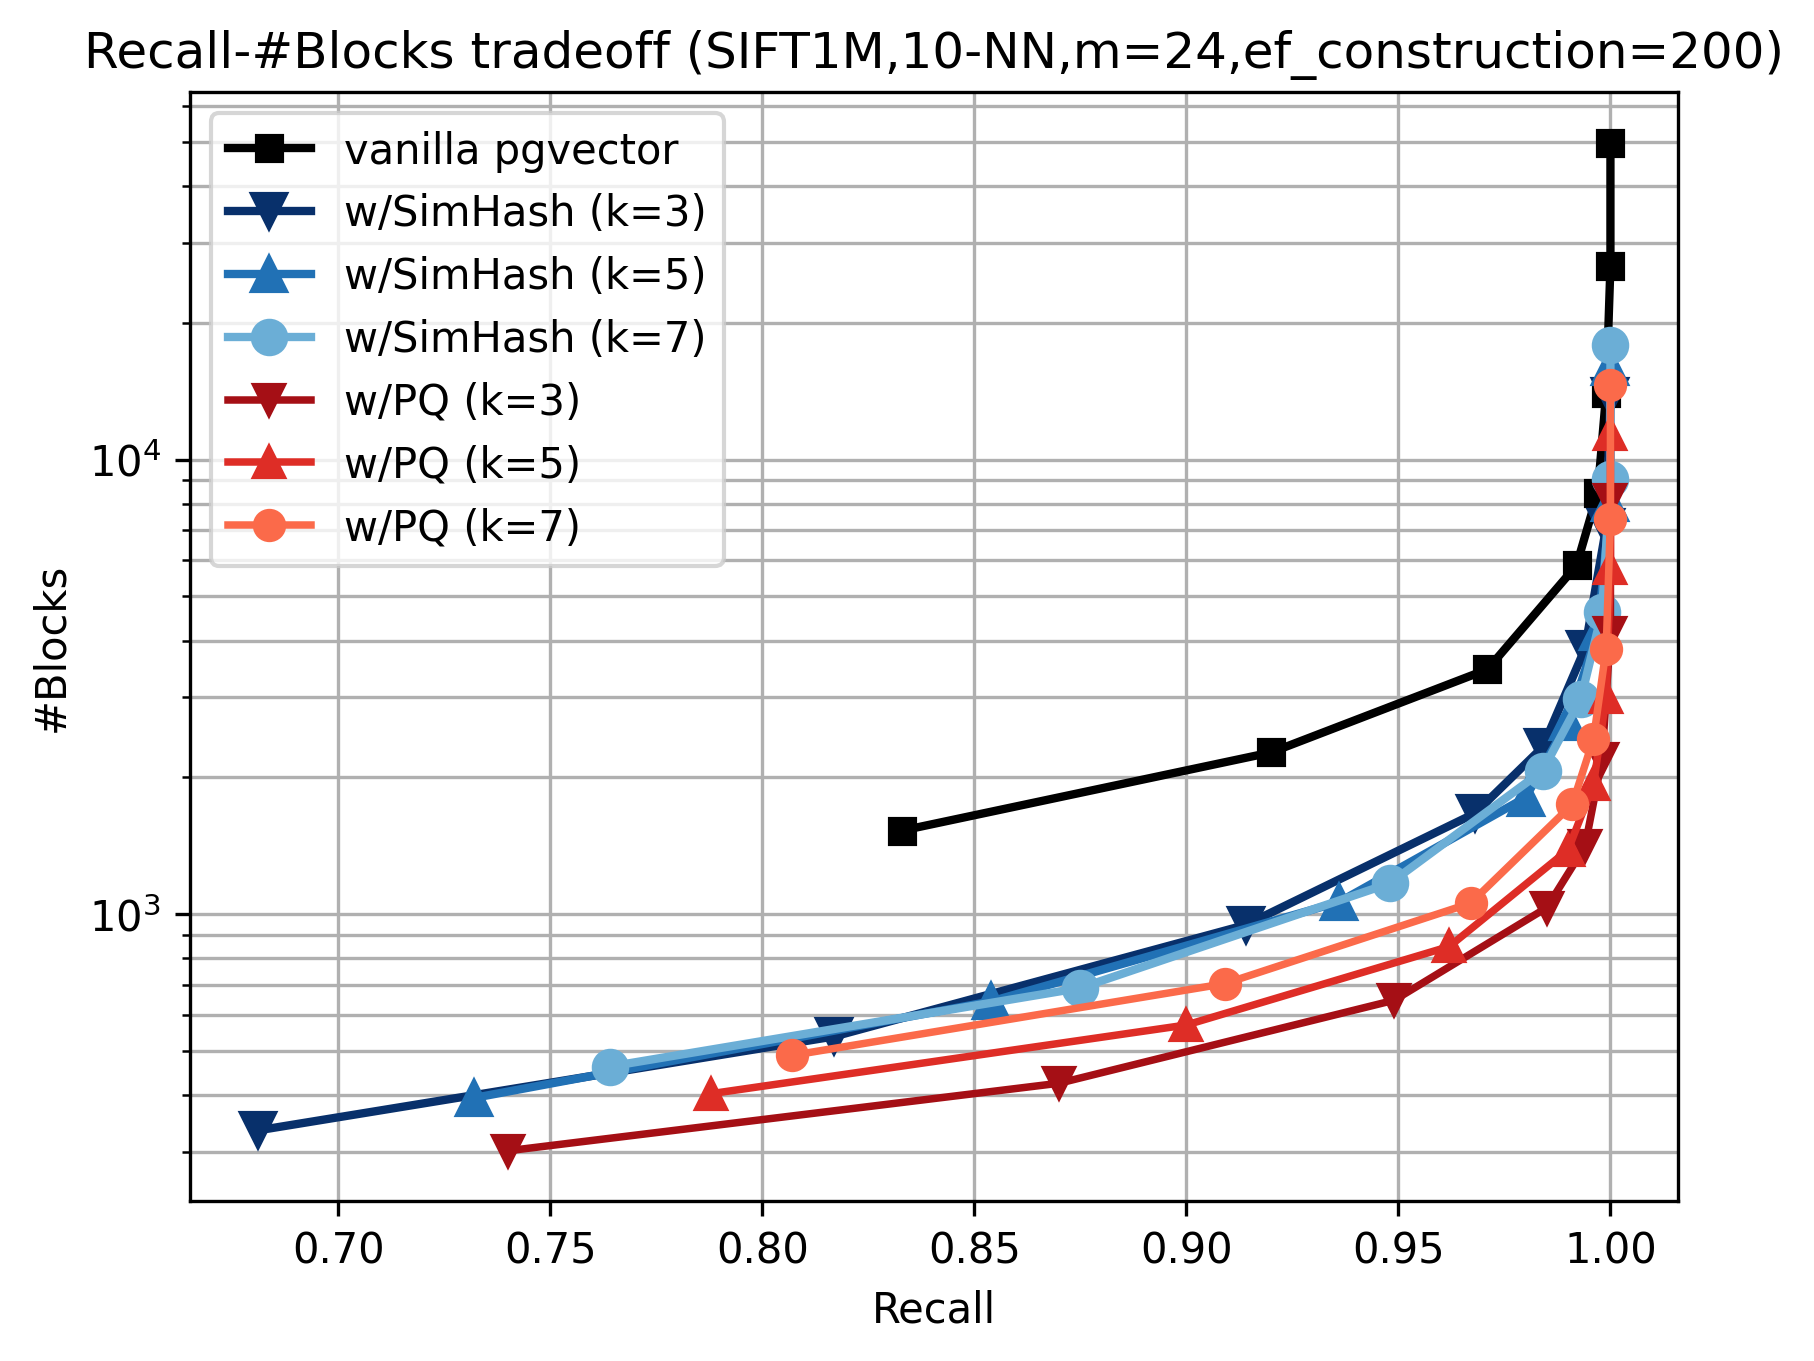
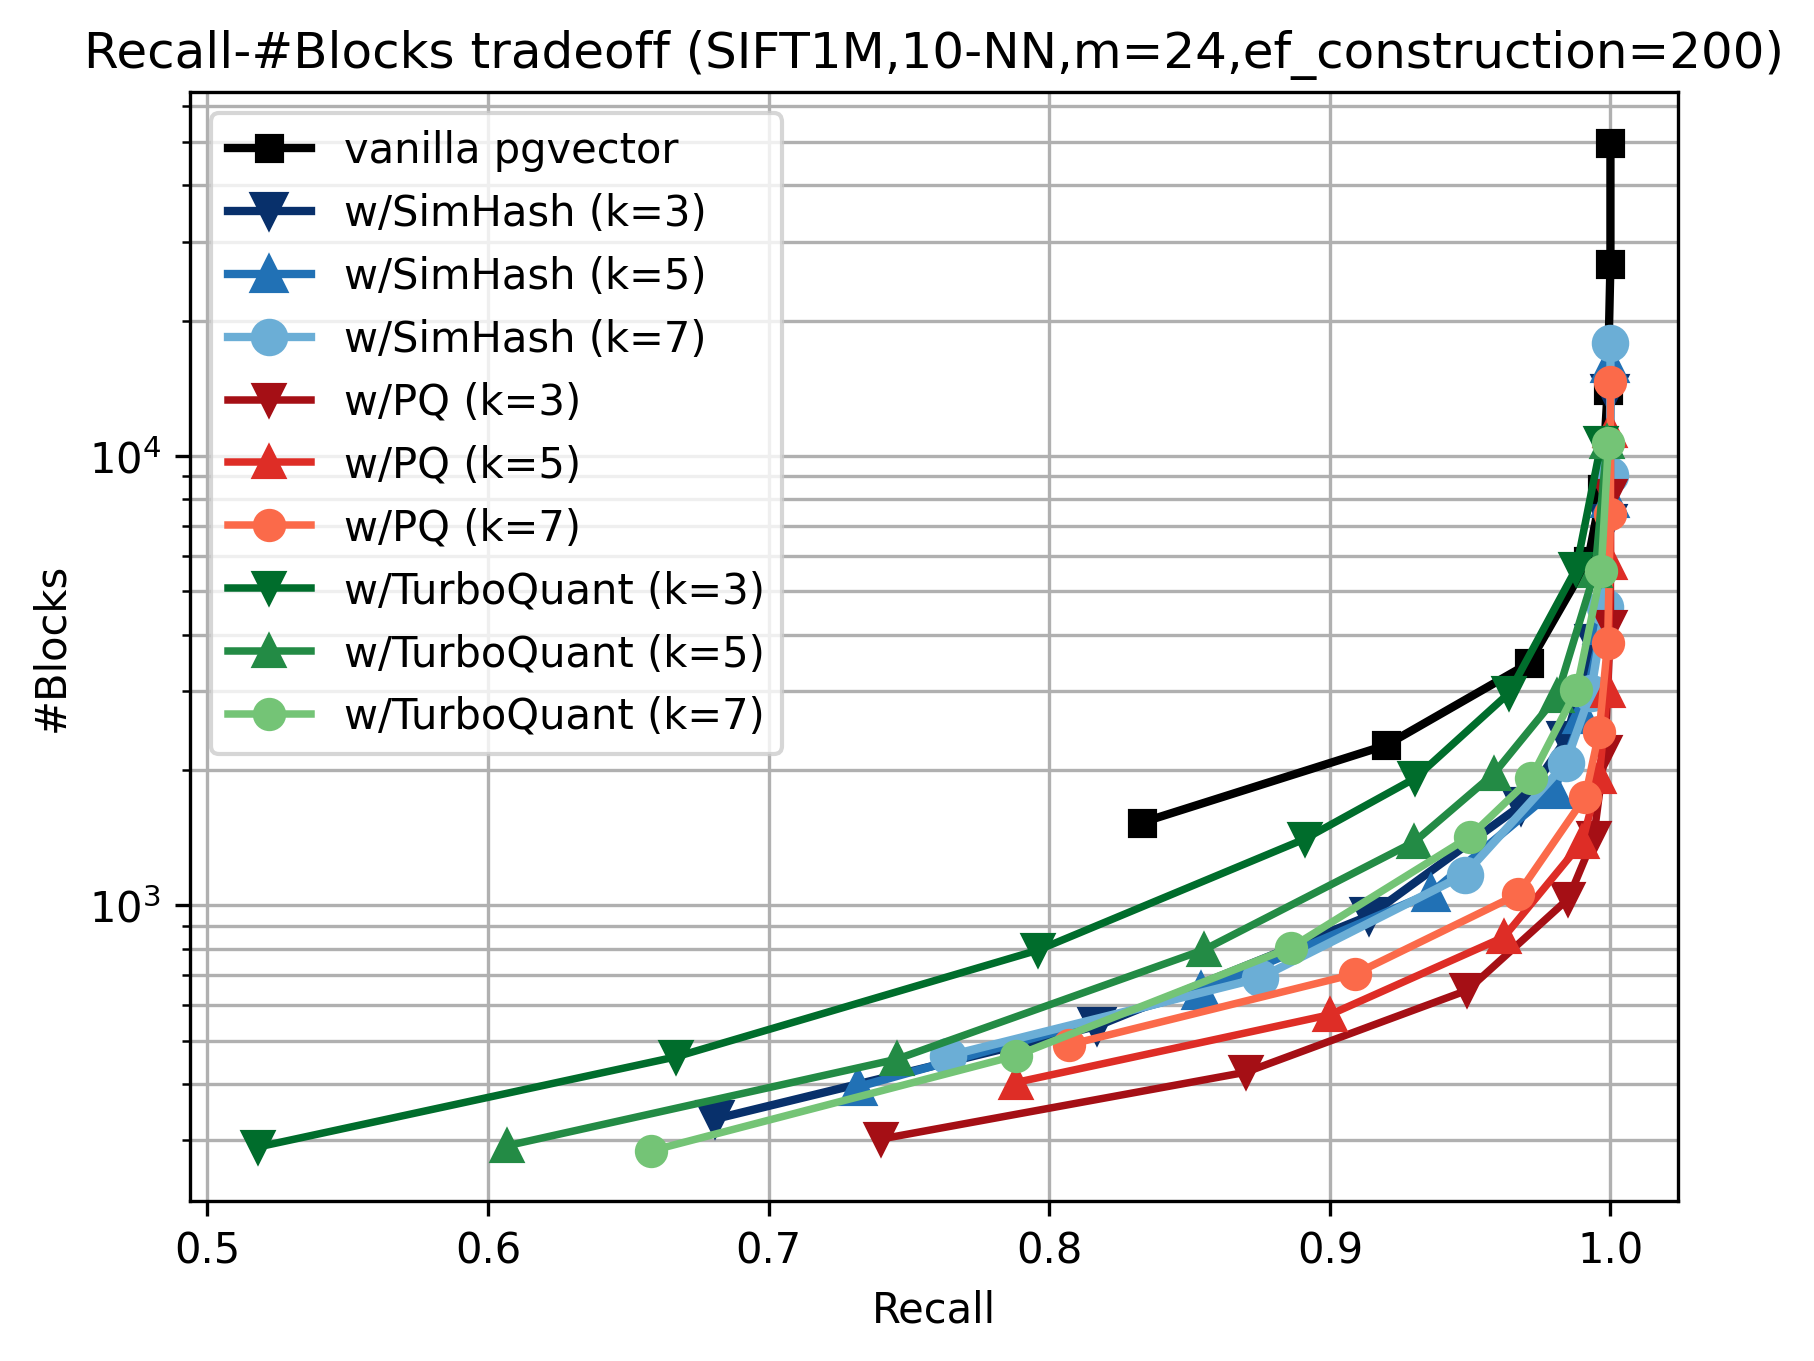
Add TurboQuant variant to README, benchmark plots, and design doc
- Describe the TurboQuant (TQ) patch in README: algorithm overview,
  build instructions, and SIFT1M benchmark results for k=3,5,7
- Add TurboQuant data series to plot_sift1m_benchmark_results.py and
  update the tradeoff chart (resources/sift1m_recall_blocks_tradeoff.png)
- Rename turboquant benchmark script/image to 'naive_turboquant_*' to
  distinguish full-dimension (m=d) results from dimension-subsampled ones
- Note in DESIGNDOC.md that reducing m from 128 to 48 has negligible
  recall impact on SIFT1M
- Add TurboQuant reference [10] and a TODO for higher-dimensional benchmarks

diff --git a/scripts/plot_sift1m_benchmark_results.py b/scripts/plot_sift1m_benchmark_results.py
@@ -19,6 +19,9 @@ def plot_results():
     recall_pd_k3 = [0.740, 0.870, 0.949, 0.985, 0.994, 0.998, 1.000, 1.000]
     blocks_pd_k3 = [301.840, 424.980, 646.920, 1034.120, 1410.340, 2190.800, 4163.740, 8156.520]
 
+    recall_tq_k3 = [0.5179, 0.6671, 0.7961, 0.8911, 0.9304, 0.9638, 0.9878, 0.9967]
+    blocks_tq_k3 = [289.640, 460.140, 795.000, 1404.940, 1917.620, 2963.680, 5613.940, 10677.400]
+
     # k=5
     recall_simhash_k5 = [0.732, 0.854, 0.936, 0.980, 0.990, 0.997, 1.000, 1.000]
     blocks_simhash_k5 = [394.52, 643.32, 1063.78, 1806.14, 2653.72, 4179.56, 8030.42, 15997.70]
@@ -26,12 +29,18 @@ def plot_results():
     recall_pd_k5 = [0.788, 0.900, 0.962, 0.990, 0.996, 0.999, 1.000, 1.000]
     blocks_pd_k5 = [403.160, 570.720, 849.320, 1385.580, 1929.480, 3004.180, 5786.120, 11377.320]
 
+    recall_tq_k5 = [0.6067, 0.7456, 0.8551, 0.9301, 0.9584, 0.9809, 0.9945, 0.9988]
+    blocks_tq_k5 = [291.560, 454.280, 795.860, 1383.540, 1960.940, 2915.340, 5536.220, 10726.780]
+
     # k=7
     recall_simhash_k7 = [0.764, 0.875, 0.948, 0.984, 0.993, 0.998, 1.000, 1.000]
     blocks_simhash_k7 = [462.50, 688.54, 1169.54, 2068.12, 2972.98, 4609.88, 9082.54, 17866.02]
 
     recall_pd_k7 = [0.807, 0.909, 0.967, 0.991, 0.996, 0.999, 1.000, 1.000]
     blocks_pd_k7 = [489.300, 703.500, 1057.400, 1743.420, 2431.960, 3838.760, 7419.400, 14603.820]
+
+    recall_tq_k7 = [0.6582, 0.7883, 0.8861, 0.9499, 0.9717, 0.9879, 0.9967, 0.9993]
+    blocks_tq_k7 = [284.220, 462.960, 805.300, 1422.280, 1918.880, 3013.520, 5534.680, 10695.900]
 
     # Plot results
     plt.plot(recall_vanilla, blocks_vanilla, marker='s', color="black", linewidth=2, label="vanilla pgvector")
@@ -42,6 +51,9 @@ def plot_results():
     plt.plot(recall_pd_k3, blocks_pd_k3, marker='v', color="#A50F15", label="w/PQ (k=3)", linewidth=1.8, markersize=7)
     plt.plot(recall_pd_k5, blocks_pd_k5, marker='^', color="#DE2D26", label="w/PQ (k=5)", linewidth=1.8, markersize=7)
     plt.plot(recall_pd_k7, blocks_pd_k7, marker='o', color="#FB6A4A", label="w/PQ (k=7)", linewidth=1.8, markersize=7)
+    plt.plot(recall_tq_k3, blocks_tq_k3, marker='v', color="#006D2C", label="w/TurboQuant (k=3)", linewidth=1.8, markersize=7)
+    plt.plot(recall_tq_k5, blocks_tq_k5, marker='^', color="#238B45", label="w/TurboQuant (k=5)", linewidth=1.8, markersize=7)
+    plt.plot(recall_tq_k7, blocks_tq_k7, marker='o', color="#74C476", label="w/TurboQuant (k=7)", linewidth=1.8, markersize=7)
 
     plt.xlabel("Recall")
     plt.ylabel("#Blocks")

diff --git a/resources/turboquant/plot_naive_turboquant_benchmark_results.py b/resources/turboquant/plot_naive_turboquant_benchmark_results.py
@@ -39,7 +39,7 @@ def plot_results():
     plt.grid(True, which="both")
 
     # Save to file
-    plt.savefig("sift1m_recall_blocks_tradeoff.png", dpi=300, bbox_inches="tight")
+    plt.savefig("naive_turboquant_benchmark_results.png", dpi=300, bbox_inches="tight")
     plt.close()
 
 

diff --git a/README.md b/README.md
@@ -13,7 +13,7 @@ The search algorithm proposed in the HNSW paper [1] proceeds greedily: for a ver
 between all of its adjacent candidate vectices and the query, then iteratively moves to the neighbor that most reduces the distance to the query.
 In pgvector, which follows the PASE’s design, these adjacent vertices are often located on different blocks, leading to frequent random block accesses during search.
 This becomes a major issue in an RDBMS, where sophisticated concurrency control for transaction processing makes both I/O overhead and lock contention critical concerns.
-To mitigate this, the work provides two alternative patches that embed per-neighbor metadata into each vertex and use it to estimate distances to the query
+To mitigate this, the work provides three alternative patches that embed per-neighbor metadata into each vertex and use it to estimate distances to the query
 without reading the blocks containing those neighbors. Neighbors of the current vertex are first ranked by an estimated distance $\hat d(q,n)$,
 and only the top-k are fetched to compute exact distances; this reduces random I/O and contention while preserving accuracy.
 This strategy is well known in earlier work as two-level search with hybrid distance [4] or re-ranking [6,7,8,9].
@@ -30,6 +30,13 @@ At query time, the PQ code is simply decoded: for each part $j$ we read the corr
 The estimated distance is then $\hat{d}(q,n) = \| q - \tilde{n} \|$.
 Neighbors are ranked by $\hat{d}(q,n)$ and, as in the first patch, only the top-k are fetched to compute exact distances.
 Compared to SimHash, PQ offers stronger estimation at the cost of build-time training and additional storage for codebooks.
+
+The third patch uses TurboQuant (TQ) [10], an MSE-optimized online vector quantizer. Each edge stores 16 bytes of per-neighbor metadata:
+4 bytes for the edge length $\|\Delta\|$ and 12 bytes of 2-bit quantized codes for up to $m = \min(d, 48)$ rotated coordinates of the edge vector $\Delta = (n - c)$.
+During index construction, $\Delta$ is multiplied by a pre-computed random orthogonal matrix $\Pi$ and each rotated coordinate is scalar-quantized to 2 bits using Lloyd-Max centroids.
+At query time, the query offset $v = (q - c)$ is likewise rotated, and the inner product $\langle v, \Delta \rangle$ is estimated from the quantized codes to derive an estimated $L_2$ distance $\hat d(q,n)$.
+When $d > 48$, dimension subsampling is applied: only the first 48 rows of $\Pi$ are used, acting as a random projection that mixes all $d$ input dimensions into 48 rotated coordinates.
+This design is training-free, compact (fixed 16 bytes per edge regardless of dimension), and its MSE bias conservatively overestimates distances, preserving recall.
 
 Apply the patches to pgvector and compile them as described below:
 
@@ -56,7 +63,13 @@ $ patch -p1 < pgvector_v0.8.0_hnsw_candidate_pruning_pq.patch
 $ make
 $ make install
 ```
-
+The TurboQuant-based patch:
+```shell
+// Compile and install pgvector w/the TurboQuant-based patch
+$ gunzip -c pgvector_v0.8.0_hnsw_candidate_pruning_turboquant.patch.gz | patch -p1
+$ make
+$ make install
+```
 Note that **these patches are incompatible with the pgvector’s original index data format** because they adds 16 bytes per-neighbor metadata, and
 they currently support only the L2 distance (vector_l2_ops) on single-precision floating-point vectors.
 
@@ -87,18 +100,24 @@ A higher value provides better recall at the cost of block accesses.
 
 ## Benchmark results
 
-This experiment compares vanilla pgvector with the two candidate-pruning variants (SimHash-based and PQ-based) on [SIFT1M](http://corpus-texmex.irisa.fr/) 10-NN,
+This experiment compares vanilla pgvector with the three candidate-pruning variants (SimHash-based, PQ-based, and TurboQuant-based) on [SIFT1M](http://corpus-texmex.irisa.fr/) 10-NN,
 using the number of block accesses required to keep target recall levels as the metric. The evaluation uses HNSW parameters m=24 and ef_construction=200.
-As shown in the figure below, around recall=0.95, the SimHash-based variant reduces block accesses by approximately 52% (k=3), 69% (k=5), and 66% (k=7) relative to the vanilla one,
-whereas the PQ-based variant achieves stronger reductions of approximately 81% (k=3), 75% (k=5), and 69% (k=7).
-At recall=1.0, the SimHash one yields about 72% (k=3), 68% (k=5), and 64% (k=7) fewer block accesses,
-while the PQ one achieves about 84% (k=3), 77% (k=5), and 71% (k=7). Therefore, these results indicate that both patches provide a consistent reduction
-in block read while maintaining accuracy, with the benefits observed in the higher-recall regime.
+The figure below plots the recall vs. block-access tradeoff for each variant at k=3, 5, and 7.
+
+Around recall=0.95, PQ achieves the largest block-access reductions of approximately 81% (k=3), 75% (k=5), and 69% (k=7) relative to vanilla pgvector.
+SimHash reduces block accesses by approximately 52% (k=3), 69% (k=5), and 66% (k=7),
+while TurboQuant yields reductions of approximately 14% (k=3), 43% (k=5), and 59% (k=7).
+At the highest recall each variant reaches (1.0 for SimHash and PQ, and approximately 0.997–0.999 for TurboQuant),
+PQ again leads with about 84% (k=3), 77% (k=5), and 71% (k=7) fewer block accesses,
+followed by TurboQuant at about 79% across all k values,
+and SimHash at about 72% (k=3), 68% (k=5), and 64% (k=7).
+Overall, PQ delivers the strongest block reduction across all recall levels and k values.
+SimHash and TurboQuant are both training-free; SimHash achieves higher recall at lower k, while TurboQuant provides more uniform block savings across k values in the high-recall regime.
 
 <img src="resources/sift1m_recall_blocks_tradeoff.png" width="600">
 
 A limitation of this design is **the increase in index size due to per‑neighbor metadata**.
-On SIFT1M, the vanilla pgvector index occupies 781 MiB, whereas enabling the 16‑byte neighbor metadata inflates the index to 1313 MiB for both patches,
+On SIFT1M, the vanilla pgvector index occupies 781 MiB, whereas enabling the 16‑byte neighbor metadata inflates the index to 1313 MiB for all three patches,
 corresponding to an increase of approximately 68%. Addressing this storage overhead remains an important direction for future work.
 
 ## TODO
@@ -107,6 +126,7 @@ corresponding to an increase of approximately 68%. Addressing this storage overh
    - For follow-up work to tackle this issue, see https://github.com/maropu/pgvector_hnsw_two_stage_pq_patch
  - Improve the patches to further reduce the number of block accesses
  - Add benchmark results showing the recall-TPS (transactions per second) tradeoff and include them in the section "Benchmark results"
+ - Add benchmark results on higher-dimensional datasets, as TurboQuant's algorithm is designed for high-dimensional spaces and may show stronger gains beyond SIFT1M's 128 dimensions
 
 ## References
 
@@ -119,3 +139,4 @@ corresponding to an increase of approximately 68%. Addressing this storage overh
  - [7] Hervé Jégou, Romain Tavenard, Matthijs Douze, and Laurent Amsaleg. 2011. Searching in one billion vectors: Re-rank with source coding. In Proceedings of the 2011 IEEE International Conference on Acoustics, Speech and Signal Processing (ICASSP 2011). IEEE, 861–864. https://doi.org/10.1109/ICASSP.2011.5946540.
  - [8] Herve Jégou, Matthijs Douze, and Cordelia Schmid. 2011. Product Quantization for Nearest Neighbor Search. IEEE Transactions on Pattern Analysis and Machine Intelligence 33, 1 (2011), 117–128. https://doi.org/10.1109/TPAMI.2010.57.
  - [9] Bing Tian, Haikun Liu, Yuhang Tang, Shihai Xiao, Zhuohui Duan, Xiaofei Liao, Hai Jin, Xuecang Zhang, Junhua Zhu, and Yu Zhang. 2025. Towards high-throughput and low-latency billion-scale vector search via CPU/GPU collaborative filtering and re-ranking. In Proceedings of the 23rd USENIX Conference on File and Storage Technologies (FAST '25). USENIX Association, USA, Article 11, 171–185.
+ - [10] Amir Zandieh, Majid Daliri, Vahab Mirrokni, and Majid Hadian. 2025. TurboQuant: Online Vector Quantization with Near-optimal Distortion Rate. arXiv preprint arXiv:2504.19874.

diff --git a/resources/turboquant/DESIGNDOC.md b/resources/turboquant/DESIGNDOC.md
@@ -105,7 +105,7 @@ where $\mathcal{C}(f_X, b)$ is the scalar MSE cost ($\approx 0.117$ for $b = 2$)
 **Practical benefits:**
 - **Fixed metadata size**: 16 bytes per edge regardless of input dimension, matching the SimHash patch budget.
 - **Reduced rotation cost**: $O(m \times d)$ instead of $O(d^2)$ at both build and scan time.
-- **Acceptable accuracy**: For candidate ranking (not exact distance computation), the moderate variance increase is tolerable since the top-k selection only requires correct relative ordering among the best candidates.
+- **Acceptable accuracy**: For candidate ranking (not exact distance computation), the moderate variance increase is tolerable since the top-k selection only requires correct relative ordering among the best candidates. Preliminary experiments on SIFT1M ($d = 128$) confirmed that reducing $m$ from 128 to 48 has negligible impact on recall at typical `ef_search` values. Benchmark results without dimension subsampling (i.e., $m = d = 128$) are available in `naive_turboquant_benchmark_results.png`.
 
 **Macro definitions** (in `src/hnswtq.h`):
 ```c
